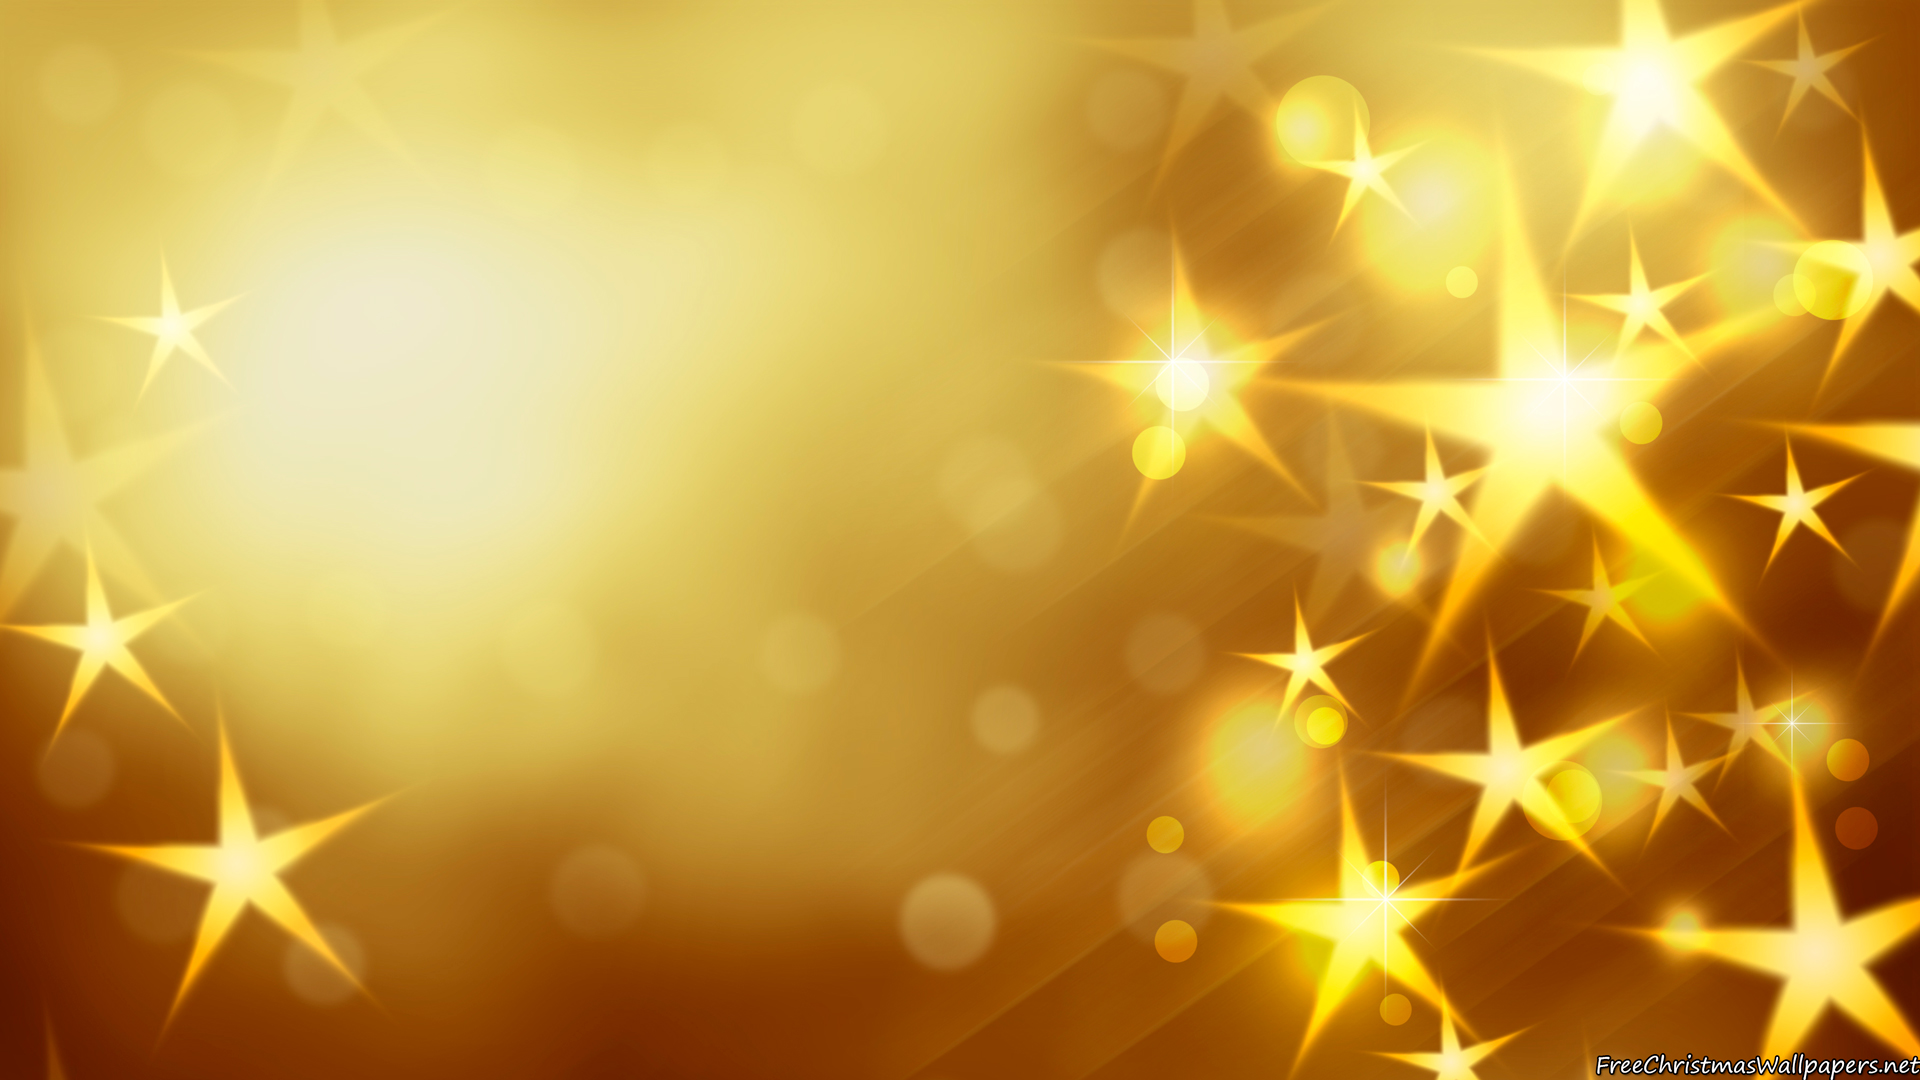
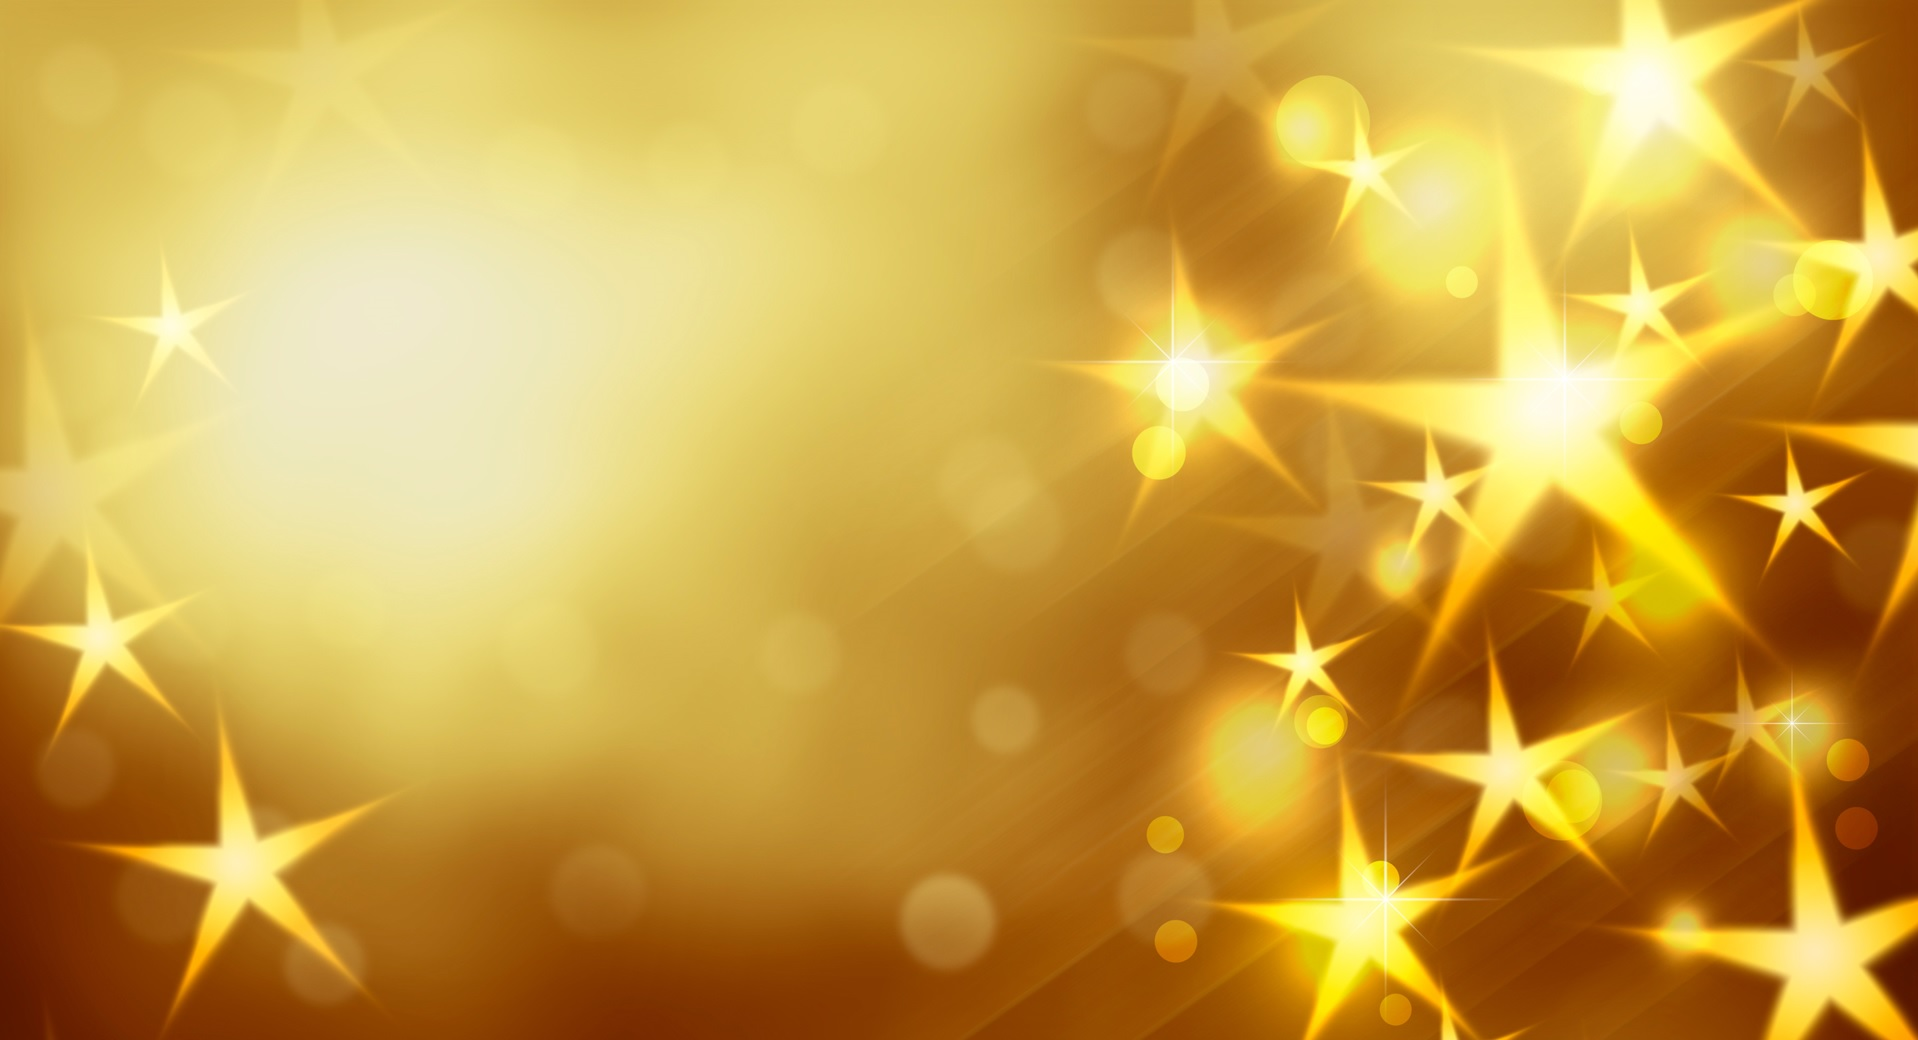
Update

diff --git a/assets/css/final.css b/assets/css/final.css
@@ -20,7 +20,7 @@ p {
 
 /*********** Body ***********/
 body {
-   background-image: url("http://hdwallpick.com/wp-content/uploads/2015/02/Christmas-Background.jpeg");
+   background-image: url("../images/starpower.jpeg");
    background-size: 100% auto;
    font-family: 'Yanone Kaffeesatz', sans-serif;
 }
